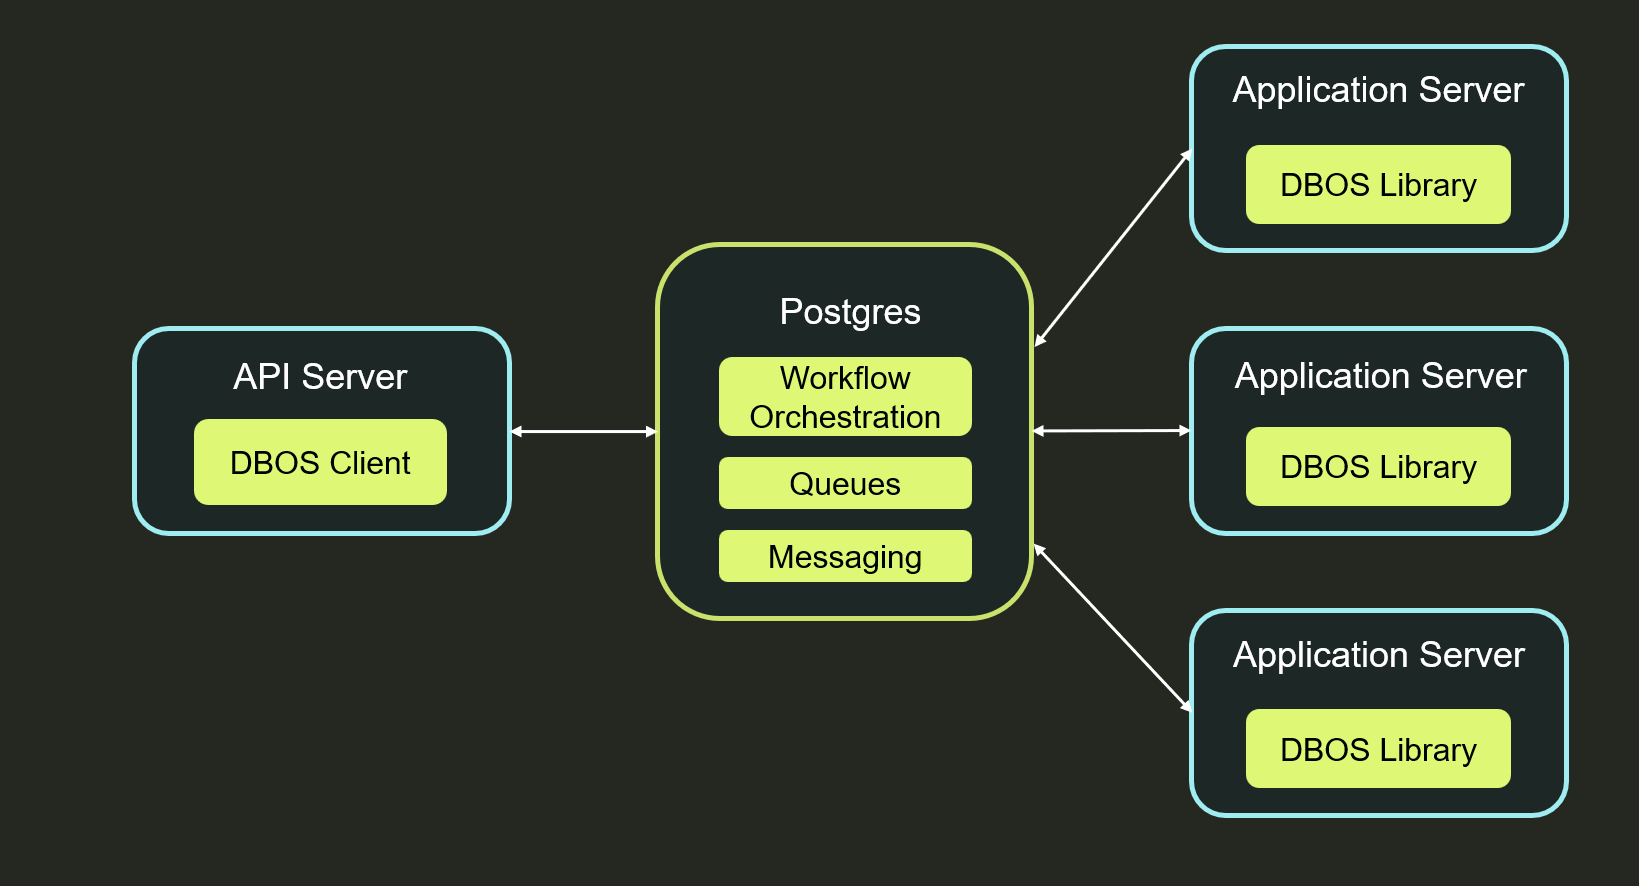
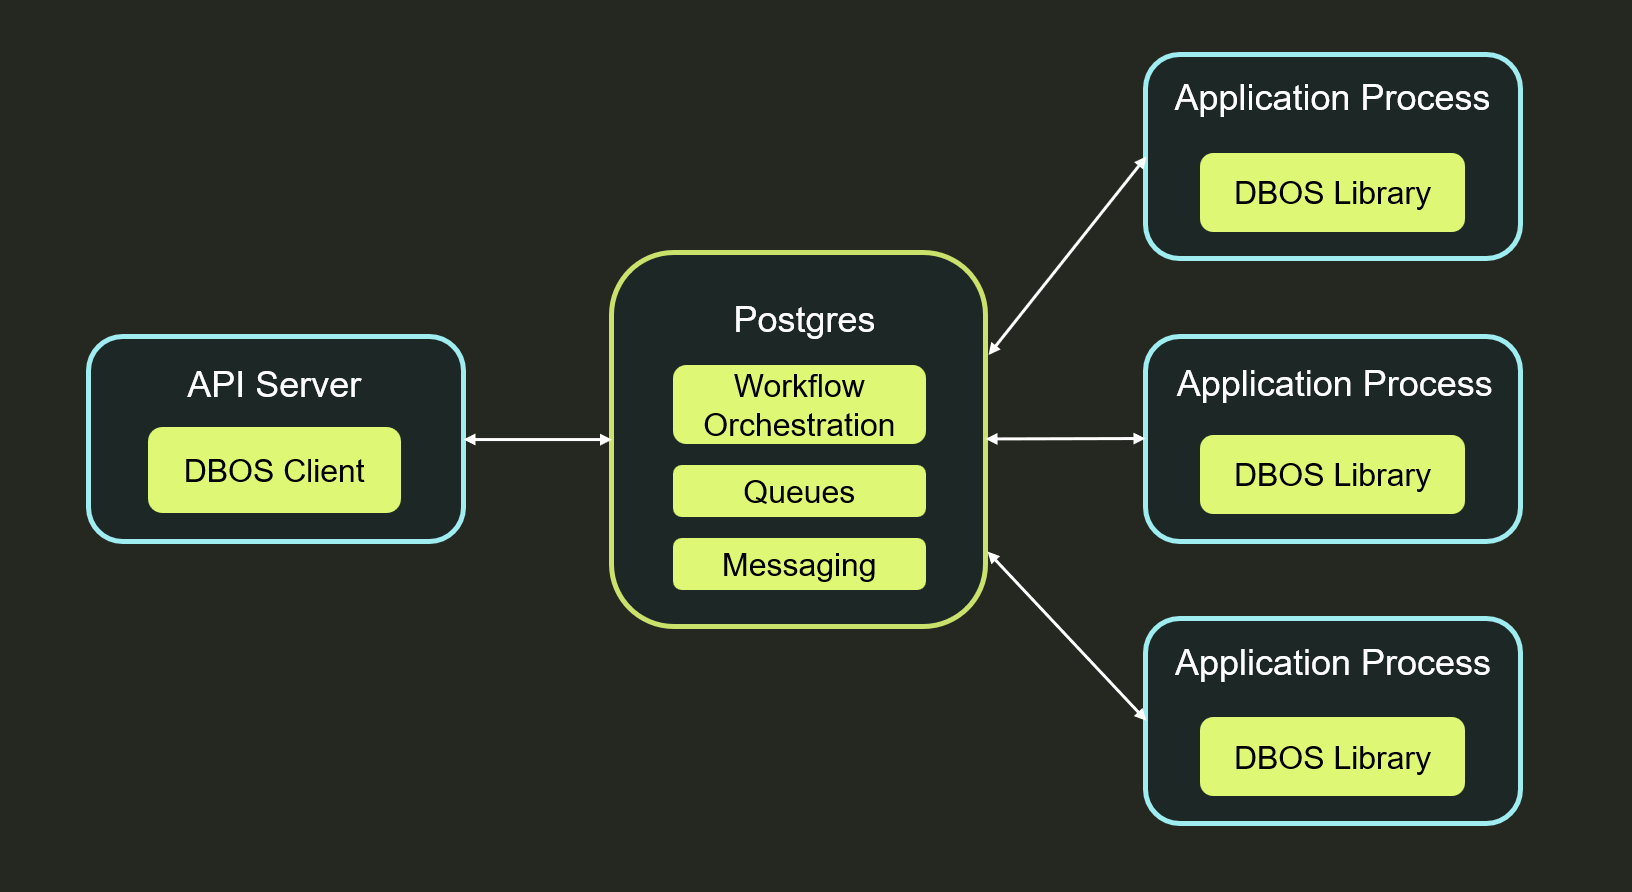
nits

Changed region(s): [[0.0312, 0.0305, 0.9688, 0.9447]]

diff --git a/docs/architecture.md b/docs/architecture.md
@@ -13,7 +13,7 @@ When failures occur, whether from crashes, interruptions, or restarts, DBOS uses
 Architecturally, an application built with DBOS looks the below diagram.
 The open-source DBOS library uses Postgres to orchestrate durable workflows and queues.
 There's no separate orchestration server and no infrastructure required besides Postgres.
-When running in production, you may optionally connect your DBOS applications to [Conductor](#operating-dbos-in-production-with-conductor), an out-of-band management service providing useful features such as an admin UI and dashboard, coordination for distributed workflow recovery, and managed workflow retention policies.
+When running in production, we also recommend connecting your DBOS applications to [Conductor](#operating-dbos-in-production-with-conductor), an out-of-band management service providing useful features such as an admin UI and dashboard, distributed workflow recovery, and managed workflow retention policies.
 
 <img src={require('@site/static/img/architecture/dbos-architecture.png').default} alt="DBOS Conductor Architecture" width="750" className="custom-img"/>
 